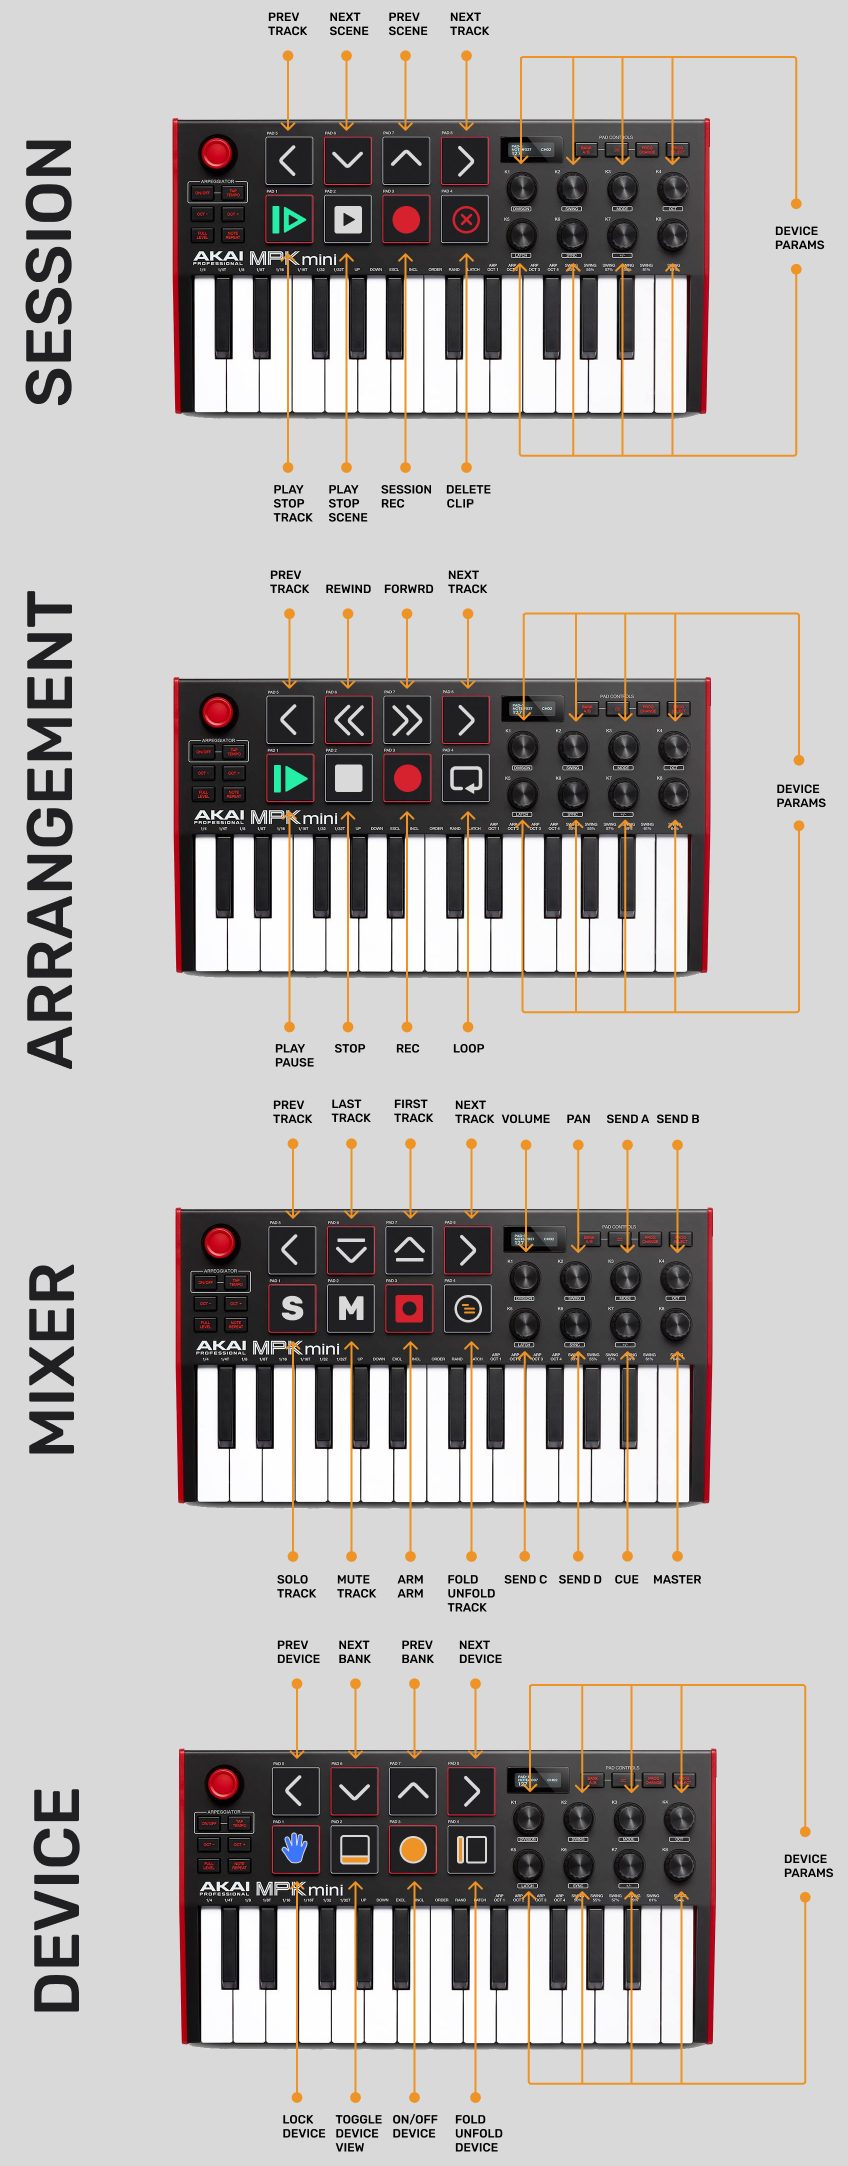
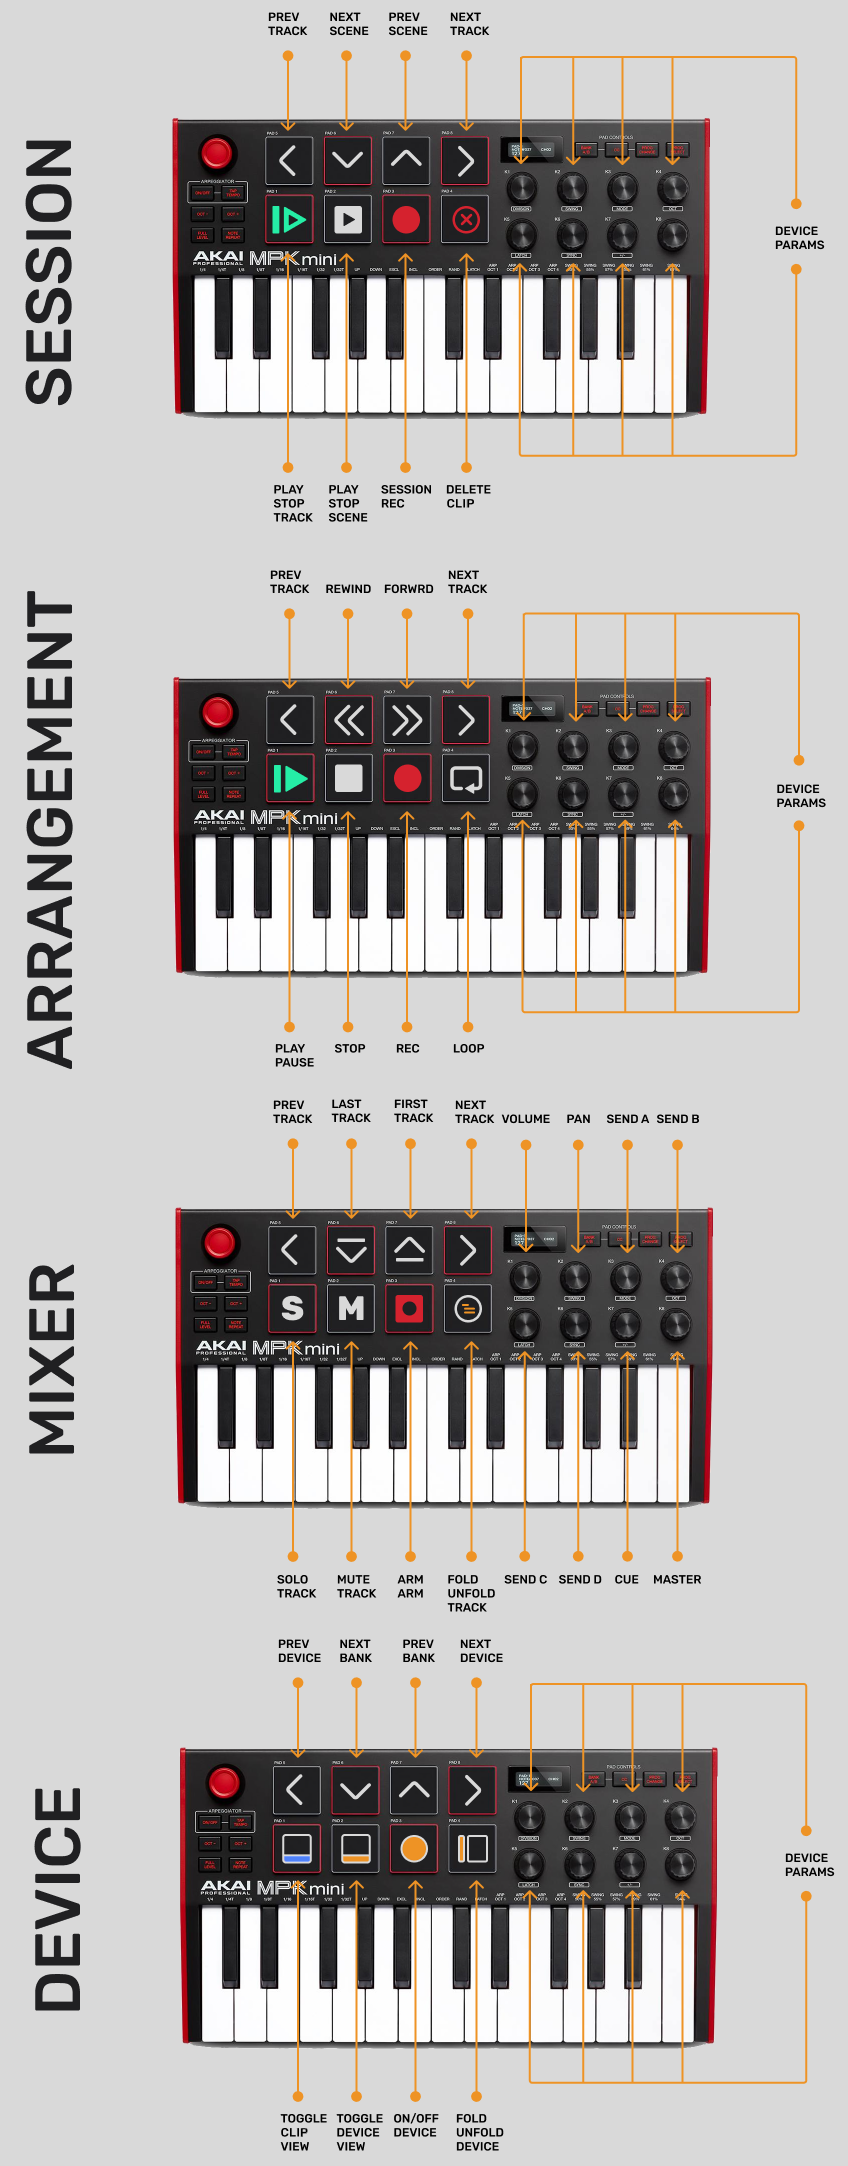
Swap device lock control for clip view toggle

diff --git a/settings.py b/settings.py
@@ -236,7 +236,7 @@ midi_mapping = {
     #
     # Device
     #
-    "toggle_lock_to_device": CC(34, ABSOLUTE),
+    "toggle_detail_clip": CC(34, ABSOLUTE),
     "toggle_detail_device": CC(35, ABSOLUTE),
     # "select_instrument": CC(35, ABSOLUTE),
     "device_on_off": CC(36, ABSOLUTE),
